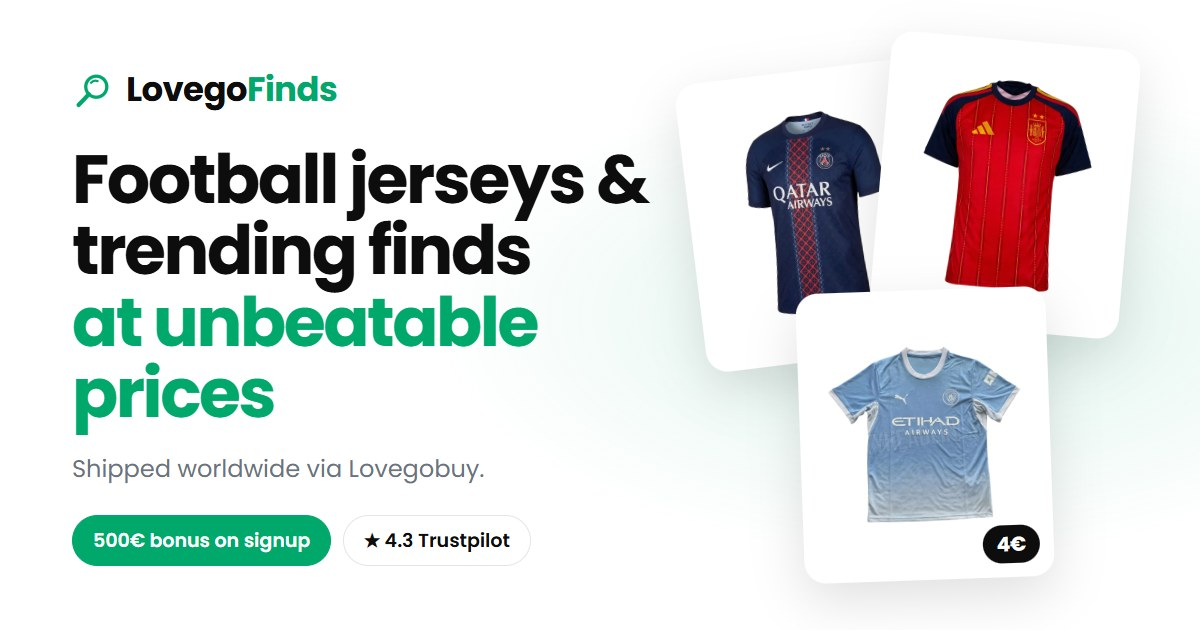
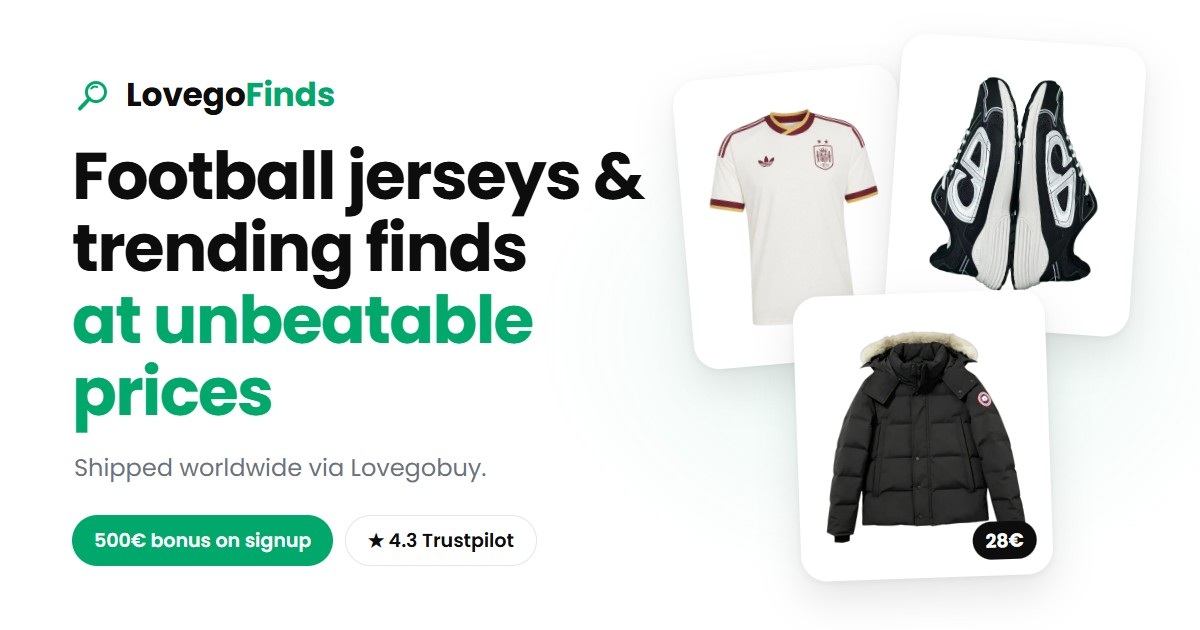
Share preview image: Spain away jersey, Dior B30, Canada Goose at 28€

diff --git a/how-to-order.html b/how-to-order.html
@@ -14,11 +14,11 @@
   <meta property="og:url" content="https://lovegofinds.com/how-to-order">
   <meta property="og:title" content="How to Order | LovegoFinds">
   <meta property="og:description" content="Step-by-step guide: how to order football jerseys and trending clothes from China via LovegoFinds. Sign up and get 500€ bonus.">
-  <meta property="og:image" content="https://lovegofinds.com/og-image.jpg">
+  <meta property="og:image" content="https://lovegofinds.com/og-image.jpg?v=2">
   <meta property="og:image:width" content="1200">
   <meta property="og:image:height" content="630">
   <meta name="twitter:card" content="summary_large_image">
-  <meta name="twitter:image" content="https://lovegofinds.com/og-image.jpg">
+  <meta name="twitter:image" content="https://lovegofinds.com/og-image.jpg?v=2">
   <link rel="preconnect" href="https://fonts.googleapis.com">
   <link rel="preconnect" href="https://fonts.gstatic.com" crossorigin>
   <link href="https://fonts.googleapis.com/css2?family=Poppins:wght@300;400;500;600;700&family=DM+Serif+Display:ital@0;1&display=swap" rel="stylesheet">

diff --git a/faq.html b/faq.html
@@ -14,11 +14,11 @@
   <meta property="og:url" content="https://lovegofinds.com/faq">
   <meta property="og:title" content="FAQ | LovegoFinds">
   <meta property="og:description" content="Frequently asked questions about ordering via LovegoFinds. Learn how it works, delivery times, the 500€ bonus and more.">
-  <meta property="og:image" content="https://lovegofinds.com/og-image.jpg">
+  <meta property="og:image" content="https://lovegofinds.com/og-image.jpg?v=2">
   <meta property="og:image:width" content="1200">
   <meta property="og:image:height" content="630">
   <meta name="twitter:card" content="summary_large_image">
-  <meta name="twitter:image" content="https://lovegofinds.com/og-image.jpg">
+  <meta name="twitter:image" content="https://lovegofinds.com/og-image.jpg?v=2">
   <link rel="preconnect" href="https://fonts.googleapis.com">
   <link rel="preconnect" href="https://fonts.gstatic.com" crossorigin>
   <link href="https://fonts.googleapis.com/css2?family=Poppins:wght@300;400;500;600;700&family=DM+Serif+Display:ital@0;1&display=swap" rel="stylesheet">

diff --git a/legal.html b/legal.html
@@ -14,11 +14,11 @@
   <meta property="og:url" content="https://lovegofinds.com/legal">
   <meta property="og:title" content="Privacy &amp; Terms | LovegoFinds">
   <meta property="og:description" content="Privacy and terms of use for LovegoFinds: what data the site uses, affiliate links and legal notice.">
-  <meta property="og:image" content="https://lovegofinds.com/og-image.jpg">
+  <meta property="og:image" content="https://lovegofinds.com/og-image.jpg?v=2">
   <meta property="og:image:width" content="1200">
   <meta property="og:image:height" content="630">
   <meta name="twitter:card" content="summary_large_image">
-  <meta name="twitter:image" content="https://lovegofinds.com/og-image.jpg">
+  <meta name="twitter:image" content="https://lovegofinds.com/og-image.jpg?v=2">
   <link rel="preconnect" href="https://fonts.googleapis.com">
   <link rel="preconnect" href="https://fonts.gstatic.com" crossorigin>
   <link href="https://fonts.googleapis.com/css2?family=Poppins:wght@300;400;500;600;700&family=DM+Serif+Display:ital@0;1&display=swap" rel="stylesheet">

diff --git a/reviews.html b/reviews.html
@@ -14,11 +14,11 @@
   <meta property="og:url" content="https://lovegofinds.com/reviews">
   <meta property="og:title" content="Reviews | LovegoFinds">
   <meta property="og:description" content="Customer reviews for LovegoFinds. 4.3★ on Trustpilot. Real customers, real packages, real savings.">
-  <meta property="og:image" content="https://lovegofinds.com/og-image.jpg">
+  <meta property="og:image" content="https://lovegofinds.com/og-image.jpg?v=2">
   <meta property="og:image:width" content="1200">
   <meta property="og:image:height" content="630">
   <meta name="twitter:card" content="summary_large_image">
-  <meta name="twitter:image" content="https://lovegofinds.com/og-image.jpg">
+  <meta name="twitter:image" content="https://lovegofinds.com/og-image.jpg?v=2">
   <link rel="preconnect" href="https://fonts.googleapis.com">
   <link rel="preconnect" href="https://fonts.gstatic.com" crossorigin>
   <link href="https://fonts.googleapis.com/css2?family=Poppins:wght@300;400;500;600;700&family=DM+Serif+Display:ital@0;1&display=swap" rel="stylesheet">

diff --git a/index.html b/index.html
@@ -40,11 +40,11 @@
   <meta property="og:url" content="https://lovegofinds.com/">
   <meta property="og:title" content="LovegoFinds | Trending picks at the lowest prices">
   <meta property="og:description" content="Curated catalog of 8,000+ football jerseys, sneakers and trending clothes to order from China via Lovegobuy. Sign up with our link: 500€ in shipping coupons.">
-  <meta property="og:image" content="https://lovegofinds.com/og-image.jpg">
+  <meta property="og:image" content="https://lovegofinds.com/og-image.jpg?v=2">
   <meta property="og:image:width" content="1200">
   <meta property="og:image:height" content="630">
   <meta name="twitter:card" content="summary_large_image">
-  <meta name="twitter:image" content="https://lovegofinds.com/og-image.jpg">
+  <meta name="twitter:image" content="https://lovegofinds.com/og-image.jpg?v=2">
   <link rel="preconnect" href="https://fonts.googleapis.com">
   <link rel="preconnect" href="https://fonts.gstatic.com" crossorigin>
   <link rel="preload" href="/data/men.json" as="fetch" crossorigin>

diff --git a/women.html b/women.html
@@ -14,11 +14,11 @@
   <meta property="og:url" content="https://lovegofinds.com/women">
   <meta property="og:title" content="LovegoFinds | Trending women's picks at the lowest prices">
   <meta property="og:description" content="Women's trending clothes at unbeatable prices. Order from China via Lovegobuy and get 500€ bonus on signup.">
-  <meta property="og:image" content="https://lovegofinds.com/og-image.jpg">
+  <meta property="og:image" content="https://lovegofinds.com/og-image.jpg?v=2">
   <meta property="og:image:width" content="1200">
   <meta property="og:image:height" content="630">
   <meta name="twitter:card" content="summary_large_image">
-  <meta name="twitter:image" content="https://lovegofinds.com/og-image.jpg">
+  <meta name="twitter:image" content="https://lovegofinds.com/og-image.jpg?v=2">
   <link rel="preconnect" href="https://fonts.googleapis.com">
   <link rel="preconnect" href="https://fonts.gstatic.com" crossorigin>
   <link rel="preload" href="/data/women.json" as="fetch" crossorigin>
